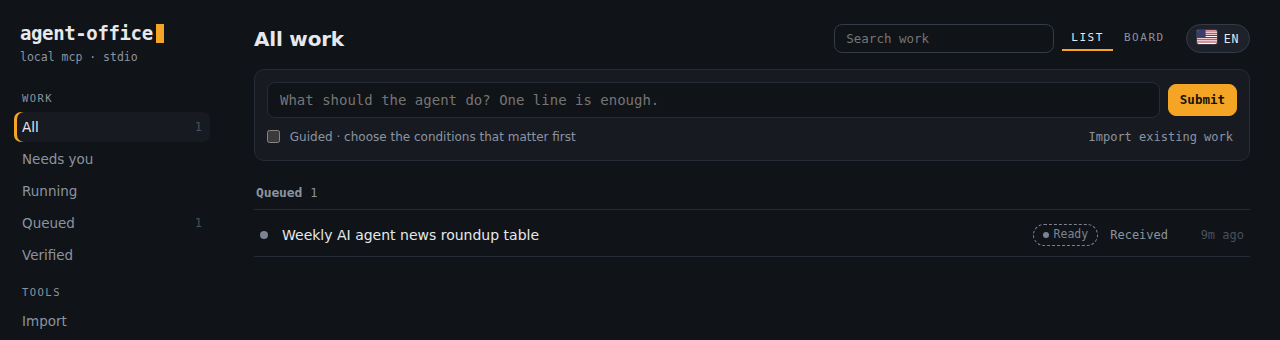
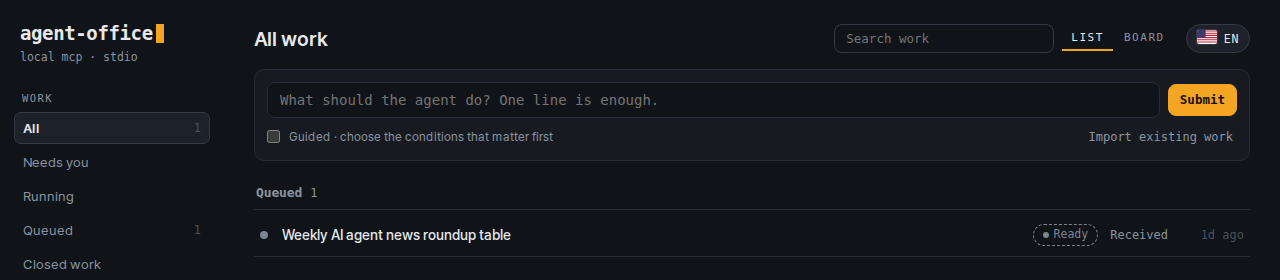
Refresh README walkthrough with v0.2.0 Control Center captures
- Recapture every Control Center screenshot from the v0.2.0 UI
  (Pretendard, bordered selection, Closed work group) and drop the
  notes that said the images predated those changes.
- Add the Coding work only settings scope capture and describe it.
- List the Hermes and remote OpenClaw import routes in the Import table.
- Explain why Claude Code reads "Not confirmed" on a setup-token login.
- Update Work detail text for the separate Work ID / run state and the
  "No per-stage verification" trace label.

Claude-Session: https://claude.ai/code/session_0171zJvKY7w77Dtde6vXCLJg

diff --git a/README.md b/README.md
@@ -110,11 +110,9 @@ This config works when the client and the server run in the same Ubuntu/WSL envi
 
 ## Control Center walkthrough
 
-> Screenshot note: the walkthrough captures predate the locally bundled Pretendard font and the switch from left-edge accents to full borders. Current source applies those styling updates; the setup flow is unchanged.
-
 `agent-driver connect` opens the **Agent Office Control Center** (the installer runs it for you). It uses the same visual language as the agent-driver run trace: a dark ground, mono-first labels, and one color per decision path. **Amber** is Jev or the step running now, **lilac** is the LLM, **blue** is plain code, **rose** is a person, and **green** means verified. The UI is **English by default**. The flag button in the top-right switches to Korean, and each browser remembers its choice. The page uses one locally bundled Pretendard variable font, with no remote font CDN, UI framework, or screen previews. Selected controls use borders and background color instead of left-edge accent bars. Longer explanations sit behind a **?** button.
 
-> These screenshots come from the **real Control Center** on this branch, captured in order on the Ubuntu 24.04 machine used for the terminal run above. The task shown was actually defined by the logged-in Claude Code subscription.
+> Every screenshot below is the **real v0.2.0 Control Center**, captured on 2026-09-26 on the Ubuntu 24.04 machine used for the terminal run above. The setup steps start from an empty `~/.agent-driver`. The Work screens use the task that the logged-in Claude Code subscription defined on 2026-09-24 under v0.1.0; it carried over the v0.2.0 upgrade with its Work ID, request and completion checks intact.
 
 ### Setup, step 1 of 4: agents
 
@@ -140,9 +138,11 @@ You approve the dedicated work folder and local execution once. The runtime is *
 
 ### Step 3 of 4: AI
 
-Pick a subscription you're already logged in to, or an API key. Client status shows as compact chips. Here Claude Code is **Connected**, and its live model list (Sonnet, Opus, Haiku) has loaded.
+Pick a subscription you're already logged in to, or an API key. Client status shows as compact chips, and the Claude Code model list (Sonnet, Opus, Haiku) loads from the CLI.
 
-![AI step, subscription: Claude Code chip "Connected", Claude Code model Sonnet (latest), and the checked consent "Allow sending work content to the selected AI to define and plan it"](docs/assets/readme/cc-04-ai-subscription.png)
+The Claude Code chip reads **Not confirmed** in this capture. It is not an error in the page: this machine's Claude Code is signed in with a long-lived token from `claude setup-token`, which reports `authMethod: oauth_token`. v0.2.0 counts Claude as a subscription only when the CLI reports a `claude.ai` login, so it never bills an API-key session by mistake. On a machine signed in with `claude login`, the chip reads **Connected**.
+
+![AI step, subscription: settings scope Global, Claude Code chip "Not confirmed", Claude Code model Sonnet (latest), and the checked consent "Allow sending work content to the selected AI to define and plan it"](docs/assets/readme/cc-04-ai-subscription.png)
 
 **Sending task text to an AI takes one explicit consent.** Saving the checkbox writes it to your local `~/.agent-driver/runtime-config.json`:
 
@@ -172,6 +172,10 @@ Refresh updates the catalog, not a deliberately selected model. If the built-in 
 |---|---|
 | ![AI step, API mode: provider Anthropic, model claude-haiku-4-5, API key field, billing and fallback checkboxes](docs/assets/readme/cc-05-ai-api.png) | ![Help modal explaining what the AI consent sends and where it's stored](docs/assets/readme/cc-07-help-modal.png) |
 
+**Coding work can use its own model.** Set **Settings scope** to **Coding work only**. With **Use global AI settings** ticked, coding follows the global choice. Untick it to pick a separate connection and CLI models for coding planning and advice. The coding itself is still done by the Codex or Claude CLI, and sessions that are already attached keep their model.
+
+![AI step, Coding work only scope: "Use global AI settings" checked, with the notes on what the coding override changes](docs/assets/readme/cc-15-ai-coding.png)
+
 ### Step 4 of 4: Jev (optional)
 
 Jev handles short, repeated decisions, such as which element to click or whether a result looks right. With no key, the LLM makes those decisions.
@@ -180,7 +184,7 @@ Task Packs define when Jev is called. A new Work uses those existing decision po
 when global connection settings permit; the Work-planning LLM does not create another
 Jev on/off policy. Explicit per-Work opt-outs remain off.
 
-![Jev step with mode "Auto"; all four tabs show check marks](docs/assets/readme/cc-06-jev.png)
+![Jev step with mode "Auto"; the Agents and Local runtime tabs show check marks](docs/assets/readme/cc-06-jev.png)
 
 ### ① Work: board and list
 
@@ -205,9 +209,9 @@ Opening a task shows the same layout as the run-trace storyboard:
 - the request line with a blinking cursor
 - the selected pack pill with its effect scope (`research.search · read-only`)
 
-In this example, Claude Code defined a one-line request into a titled task with four completion checks. The left column is the **Run trace**: one node per stage with its objective and owner. Verified stages turn amber, the running stage gets a halo, and a stage waiting on a person turns rose. The pictured stages are all queued; this capture demonstrates the layout, not completed execution or verification. It predates the correction that labels Work and Run IDs separately.
+In this example, Claude Code defined a one-line request into a titled task with four completion checks. The header shows the Work ID (`#6AB12F3B`) and, separately, that no run has started yet. The left column is the **Run trace**: one node per completion check with its owner. A run path that does not report independently verified stage progress says **No per-stage verification** instead of drawing a progress bar. Verified stages turn amber, the running stage gets a halo, and a stage waiting on a person turns rose. The pictured checks are all queued; this capture shows the layout, not completed execution or verification.
 
-![Earlier Work detail preview: request line, research.search · read-only, four queued completion-check stages, and the Human control panel](docs/assets/readme/cc-10-work-detail.png)
+![Work detail: Ready badge, Work #6AB12F3B with run not started, request line, research.search · read-only, four queued completion checks, and the Human control panel with Pause and Jev decisions](docs/assets/readme/cc-10-work-detail.png)
 
 ### ③ Human control: pause or redirect a stage
 
@@ -218,7 +222,7 @@ The rose **Human control** panel is where a person steps in. From there you can:
 - answer the questions from a guided task
 - retry a definition
 - attach an existing Codex session and send it one instruction at a time
-- turn Jev on for this task (with cost consent)
+- turn Jev on for this task (with cost consent), or turn it off for this task when the Task Pack would use it
 - see run history and client handoffs
 
 Already-verified results are never rewritten. A read-only run path that can't be safely changed midway says so, rather than pretending to stop.
@@ -232,14 +236,16 @@ Already-verified results are never rewritten. A read-only run path that can't be
 | **Another AI's automation** | Paste the provided prompt into your current AI, then paste its JSON reply back. It's checked as an **unverified draft**: secrets are rejected and each claim links to evidence. Your existing automation is not changed. |
 | **Workflow project** | Reads part of a local or WSL project path, read-only. No code runs. |
 | **Improve an existing bot** | Starts from an existing bot and drafts improvements. |
+| **Hermes work** | Lists conversations and schedules from a compatible local Hermes profile. You review the draft before importing; the same Hermes profile keeps running the work, and importing alone calls no model and runs nothing. [Details](docs/work-migration.md) |
+| **Remote OpenClaw** | Finds conversations and schedules on a server that already runs OpenClaw, over the SSH key of the environment running Office. OpenClaw stays on that server; you send each next instruction from Work detail. Connecting alone runs nothing. [Details](docs/remote-office.md) |
 
-![Import: route buttons, the copyable migration prompt and the JSON paste box](docs/assets/readme/cc-11-import.png)
+![Import: five route buttons (Another AI's automation, Workflow project, Improve an existing bot, Hermes, Remote OpenClaw), the copyable migration prompt and the JSON paste box](docs/assets/readme/cc-11-import.png)
 
 ### Site login, only when needed
 
-Site logins aren't part of setup. When a task reaches a URL that needs a login, only that worker pauses, and the site appears here. The image below shows the empty state only; it does not demonstrate a login or handoff. Its initial loading notice was fixed after this capture.
+Site logins aren't part of setup. When a task reaches a URL that needs a login, only that worker pauses, and the site appears here. The image below shows the empty state only; it does not demonstrate a login or handoff.
 
-![Earlier site-login empty state: no site needs a login; no login flow is shown](docs/assets/readme/cc-12-site-login.png)
+![Site-login empty state: no site needs a login; no login flow is shown](docs/assets/readme/cc-12-site-login.png)
 
 <details>
 <summary>Korean UI and mobile layout</summary>
